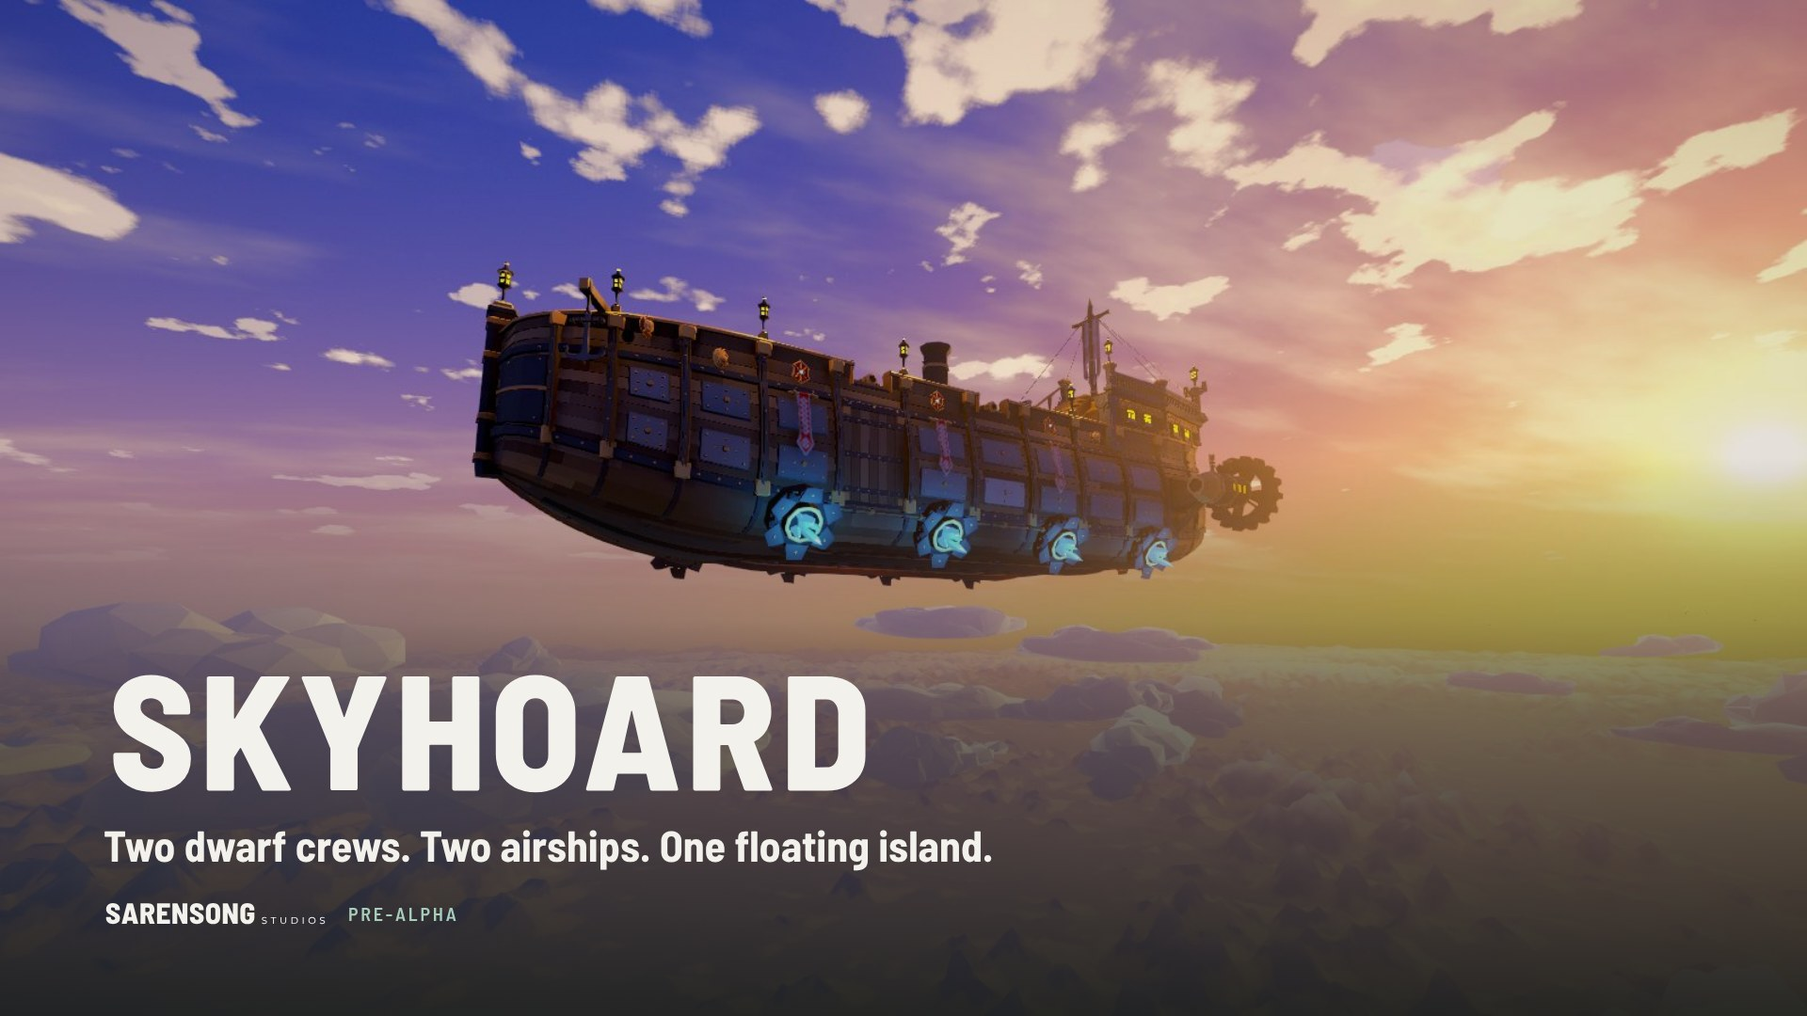
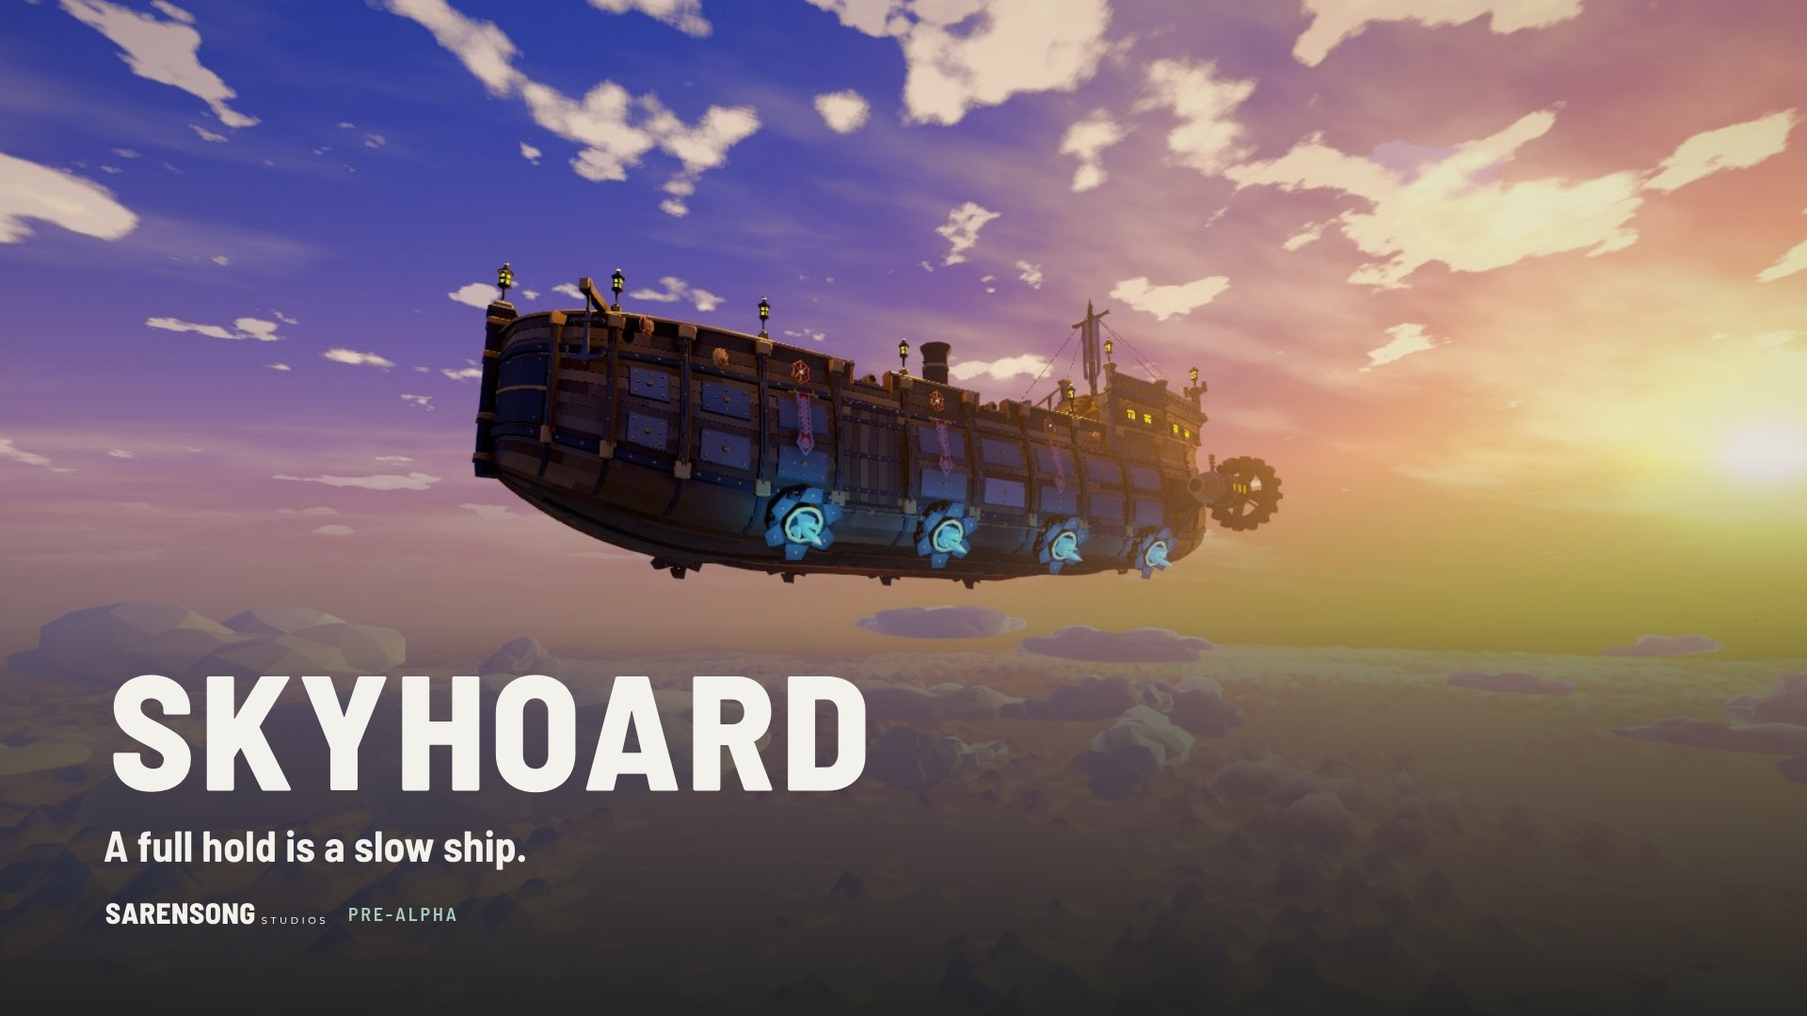
Fact-check pass and teaser-level Skyhoard copy
Claims were checked against the Skyhoard build sessions:
- Code claim narrowed to the game's own code (third-party Unity
  packages and asset-pack shaders ship too)
- Airship model described as script-built hull fitted with pack props
- Test stats made exact (26 checks, 139 pictures); network tests
  described as two copies over the network, not online play
- Music credit removed until confirmed
- Skyhoard marked as a working title

The game section, press kit and brand guide now describe Skyhoard at
genre level only: feature list and roadmap removed, new tagline
"A full hold is a slow ship.", social card re-rendered to match.

Claude-Session: https://claude.ai/code/session_01LGHXE58H4sRZh7WCVAbeqn

Changed region(s): [[0.0625, 0.7944, 0.5625, 0.8556]]

diff --git a/index.html b/index.html
@@ -4,11 +4,11 @@
 <meta charset="utf-8">
 <meta name="viewport" content="width=device-width, initial-scale=1, viewport-fit=cover">
 <title>Sarensong Studios</title>
-<meta name="description" content="Sarensong Studios is a one-person game studio. Its first game, Skyhoard, puts two crews of dwarves in armoured airships above a floating island.">
+<meta name="description" content="Sarensong Studios is a one-person game studio. Its first game, Skyhoard, is a first-person multiplayer game about dwarf crews and their armoured airships.">
 <meta name="theme-color" content="#F2F1EC">
 <meta property="og:type" content="website">
 <meta property="og:title" content="Sarensong Studios">
-<meta property="og:description" content="A one-person game studio. Now building Skyhoard: two dwarf crews, two airships, one floating island.">
+<meta property="og:description" content="A one-person game studio, built with Claude. Now making Skyhoard.">
 <meta property="og:image" content="brand/social/og-1200x630.jpg">
 <meta name="twitter:card" content="summary_large_image">
 <link rel="icon" href="assets/favicon.svg" type="image/svg+xml">
@@ -41,7 +41,7 @@
         <h1>Worlds that call you back.</h1>
       </div>
       <div class="hero-copy">
-        <p class="lede">Sarensong Studios is a one-person game studio. Our first game, Skyhoard, puts two crews of dwarves in armoured airships above a floating island. Every line of its code is written by Claude Code, directed by one developer.</p>
+        <p class="lede">Sarensong Studios is a one-person game studio. Our first game, Skyhoard, is a multiplayer game about dwarf crews and their armoured airships. All of the game's own code is written by Claude Code, directed by one developer.</p>
         <div class="cta-row">
           <a class="btn btn-pine" href="#skyhoard">See Skyhoard</a>
           <a class="btn btn-line" href="#pipeline">How it's built</a>
@@ -59,47 +59,28 @@
   <section class="section night" id="skyhoard" aria-labelledby="skyhoard-title">
     <div class="wrap">
       <div class="game-head">
-        <p class="label">Our first game · In development</p>
+        <p class="label">Our first game · Working title · In development</p>
         <h2 id="skyhoard-title" class="game-title">Skyhoard</h2>
-        <p class="game-tagline">Two dwarf crews. Two airships. One floating island.</p>
+        <p class="game-tagline">A full hold is a slow ship.</p>
       </div>
 
       <div class="game-intro">
-        <p class="lede">Skyhoard is a first-person multiplayer game about crews of dwarves who fly forgeships: armoured airships of timber and iron. Take the wheel, man the cannon, and shoot out the other ship's engines and lift crystals. Plates crack and get blown off, bare timber breaches and burns, and somebody has to grab the sand.</p>
+        <p class="lede">A first-person multiplayer game about dwarf crews, armoured airships of timber and iron, and the riches they try to bring home. More soon.</p>
         <dl class="facts">
           <div><dt class="label">Genre</dt><dd>First-person multiplayer</dd></div>
-          <div><dt class="label">Players</dt><dd>Two crews, online</dd></div>
+          <div><dt class="label">Platform</dt><dd>PC</dd></div>
           <div><dt class="label">Engine</dt><dd>Unity 6</dd></div>
           <div><dt class="label">Status</dt><dd>Pre-alpha</dd></div>
         </dl>
       </div>
 
       <div class="gallery" aria-label="Skyhoard screenshots">
-        <figure class="big"><a href="assets/skyhoard/in-flight.jpg"><img src="assets/skyhoard/in-flight.jpg" alt="The rival crew's forgeship in flight above the clouds, lift crystals glowing along her hull" width="1600" height="900"><figcaption>In flight</figcaption></a></figure>
-        <figure><a href="assets/skyhoard/landed.jpg"><img src="assets/skyhoard/landed.jpg" alt="A forgeship landed on the island meadow with her ramp lowered" width="1600" height="900" loading="lazy"><figcaption>Landed on the island</figcaption></a></figure>
+        <figure class="big"><a href="assets/skyhoard/in-flight.jpg"><img src="assets/skyhoard/in-flight.jpg" alt="An armoured airship in flight above the clouds, lift crystals glowing along her hull" width="1600" height="900"><figcaption>In flight</figcaption></a></figure>
+        <figure><a href="assets/skyhoard/landed.jpg"><img src="assets/skyhoard/landed.jpg" alt="An airship landed on an island meadow with her ramp lowered" width="1600" height="900" loading="lazy"><figcaption>Landed</figcaption></a></figure>
         <figure><a href="assets/skyhoard/forge.jpg"><img src="assets/skyhoard/forge.jpg" alt="The forge room below deck: a glowing smelter, forge and anvil" width="1600" height="900" loading="lazy"><figcaption>The forge room</figcaption></a></figure>
-        <figure><a href="assets/skyhoard/gun-fired.jpg"><img src="assets/skyhoard/gun-fired.jpg" alt="A cannon firing at the other ship from the gun deck" width="1600" height="900" loading="lazy"><figcaption>Broadside</figcaption></a></figure>
-        <figure><a href="assets/skyhoard/burning.jpg"><img src="assets/skyhoard/burning.jpg" alt="The other ship with a hull cell shot through and on fire" width="1600" height="900" loading="lazy"><figcaption>Hull breached and burning</figcaption></a></figure>
-        <figure><a href="assets/skyhoard/at-the-wheel.jpg"><img src="assets/skyhoard/at-the-wheel.jpg" alt="First-person view from the ship's wheel, looking forward over the deck at sunset" width="1600" height="900" loading="lazy"><figcaption>At the wheel</figcaption></a></figure>
-      </div>
-
-      <ul class="features">
-        <li><h3>Fly the forgeship</h3><p>Steer from the wheel on the quarterdeck. Twenty-four metres of timber and iron over three decks, with a forge in her belly.</p></li>
-        <li><h3>Break the other ship</h3><p>Cannon fire cracks hull plates, blows them off and holes the timber behind. Engines and lift crystals can be shot out.</p></li>
-        <li><h3>Fight the fire</h3><p>Bare timber burns, and a fire keeps spreading until someone puts it out with sand.</p></li>
-        <li><h3>Grapple and climb</h3><p>A rope that wraps round edges. Climb cliffs and ship sides, and rivet new plates on while hanging off the hull.</p></li>
-        <li><h3>Mine, fight and ram</h3><p>Dig ore on the island, fight its golems, or ram the other ship at full speed.</p></li>
-        <li><h3>Play with friends</h3><p>Host a match and share a join code. Nobody has to open a port.</p></li>
-      </ul>
-
-      <div class="roadmap">
-        <h3 class="label">Roadmap</h3>
-        <ol class="track">
-          <li class="done"><span class="state">Done</span><strong>Playable prototype</strong><span>Online matches for two crews, with join codes</span></li>
-          <li class="now"><span class="state">Now</span><strong>Forgeship polish</strong><span>Helm instruments, fuller decks and a smaller starter hull</span></li>
-          <li><span class="state">Next</span><strong>Boarding</strong><span>A grappling cannon and a crew-worked capstan</span></li>
-          <li><span class="state">Later</span><strong>Modular ships</strong><span>Swap cannon, engines, prow and rudder, and forge your own plates aboard</span></li>
-        </ol>
+        <figure><a href="assets/skyhoard/gun-fired.jpg"><img src="assets/skyhoard/gun-fired.jpg" alt="A cannon firing from the gun deck" width="1600" height="900" loading="lazy"><figcaption>Broadside</figcaption></a></figure>
+        <figure><a href="assets/skyhoard/burning.jpg"><img src="assets/skyhoard/burning.jpg" alt="An airship with a hull section on fire" width="1600" height="900" loading="lazy"><figcaption>Taking fire</figcaption></a></figure>
+        <figure><a href="assets/skyhoard/at-the-wheel.jpg"><img src="assets/skyhoard/at-the-wheel.jpg" alt="First-person view from the ship's wheel at sunset" width="1600" height="900" loading="lazy"><figcaption>At the wheel</figcaption></a></figure>
       </div>
     </div>
   </section>
@@ -109,21 +90,21 @@
       <div class="section-head">
         <p class="label">How we build</p>
         <h2 id="pipeline-title">Built by one developer and Claude.</h2>
-        <p class="lede">Skyhoard's code, its 3D ship, its build scripts and its tests are all written by Claude Code, working from the command line. The Unity editor has never been opened by hand. The developer sets the direction, plays every build and makes the calls.</p>
+        <p class="lede">Skyhoard's game code, the script that builds its airship, its build tooling and its tests are all written by Claude Code, working from the command line. The Unity editor has never been opened by hand. The developer designs the game, directs the art and plays the builds.</p>
       </div>
 
       <dl class="stats">
         <div><dt>times the Unity editor has been opened by hand. Every scene is assembled by script.</dt><dd>0</dd></div>
-        <div><dt>triangles per forgeship, modelled plank by plank by a Python script in Blender.</dt><dd>315k</dd></div>
-        <div><dt>waypoints the game walks itself through on every test run, with scripted checks and a picture report.</dt><dd>76</dd></div>
-        <div><dt>milliseconds per frame, after Claude profiled a slow physics query and rewrote it.</dt><dd>13→0.2</dd></div>
+        <div><dt>triangles per airship, built by a Python script in Blender: the hull plank by plank, fitted out with ready-made props.</dt><dd>315k</dd></div>
+        <div><dt>waypoints the game walks itself through on every test run, with 26 scripted checks and 139 pictures.</dt><dd>76</dd></div>
+        <div><dt>milliseconds per frame, after Claude measured a slow physics check on the ships and rewrote it.</dt><dd>13→0.2</dd></div>
       </dl>
 
       <ol class="steps">
         <li><h3>Direct</h3><p>The developer describes the feature, the feel or the fix, and reviews pictures of the result.</p></li>
-        <li><h3>Write</h3><p>Claude Code writes the C# game code, the scripts that assemble each scene and model the ship, and Python that synthesizes most of the sound effects.</p></li>
+        <li><h3>Write</h3><p>Claude Code writes the C# game code, the scripts that assemble each scene and build the ship, and Python that synthesizes most of the sound effects.</p></li>
         <li><h3>Build</h3><p>One command builds the scene, builds the game and runs the tests.</p></li>
-        <li><h3>Test</h3><p>The game plays itself: a hidden walk-through, two hidden copies playing each other online, and benchmark runs.</p></li>
+        <li><h3>Test</h3><p>The game plays itself: a hidden walk-through, two hidden copies playing each other over the network, and benchmark runs.</p></li>
         <li><h3>Play</h3><p>A playtest build goes out, and whatever feels wrong goes back to the first step.</p></li>
       </ol>
     </div>
@@ -134,7 +115,7 @@
       <div class="studio-copy">
         <p class="label">The studio</p>
         <h2 id="studio-title">One developer. Claude as the crew.</h2>
-        <p>Sarensong Studios was founded in 2026 by a solo developer. Design, direction, music and every final decision come from one desk, and the engineering is done hand in hand with Claude.</p>
+        <p>Sarensong Studios was founded in 2026 by a solo developer. Design, art direction and every final decision come from one desk, and the engineering is done hand in hand with Claude.</p>
         <p>Working this way lets one person build a networked 3D game with its own ship pipeline, test suite and benchmarks, work that would normally need a team.</p>
       </div>
       <div class="spec">

diff --git a/press.html b/press.html
@@ -68,11 +68,10 @@
           </dl>
         </div>
         <div class="spec">
-          <h3>Skyhoard</h3>
+          <h3>Skyhoard <span class="label">· working title</span></h3>
           <dl>
             <div><dt class="label">Genre</dt><dd>First-person multiplayer</dd></div>
-            <div><dt class="label">Players</dt><dd>Two crews of dwarves, online with join codes</dd></div>
-            <div><dt class="label">Engine</dt><dd>Unity 6</dd></div>
+                        <div><dt class="label">Engine</dt><dd>Unity 6</dd></div>
             <div><dt class="label">Platform</dt><dd>PC</dd></div>
             <div><dt class="label">Status</dt><dd>Pre-alpha · release date to be announced</dd></div>
           </dl>
@@ -91,7 +90,7 @@
       <div class="copy-grid">
         <article class="copy-block">
           <header><h3 class="label">Skyhoard · one line</h3><button class="btn btn-line btn-sm" type="button" data-copy="copy-game-short" aria-live="polite">Copy</button></header>
-          <div class="copy-text" id="copy-game-short"><p>Skyhoard is a first-person multiplayer game where two crews of dwarves fly armoured airships and fight over a floating island.</p></div>
+          <div class="copy-text" id="copy-game-short"><p>Skyhoard is a first-person multiplayer game about dwarf crews, armoured airships and the riches they try to bring home.</p></div>
         </article>
         <article class="copy-block">
           <header><h3 class="label">Studio · one line</h3><button class="btn btn-line btn-sm" type="button" data-copy="copy-studio-short" aria-live="polite">Copy</button></header>
@@ -99,11 +98,11 @@
         </article>
         <article class="copy-block">
           <header><h3 class="label">Skyhoard · paragraph</h3><button class="btn btn-line btn-sm" type="button" data-copy="copy-game-long" aria-live="polite">Copy</button></header>
-          <div class="copy-text" id="copy-game-long"><p>Skyhoard puts two crews of dwarves on two forgeships, armoured airships of timber and iron, above a floating island. Take the wheel, man the cannon, and shoot out the other ship's engines and lift crystals. Hull plates crack and get blown off, bare timber breaches and burns, and somebody has to grab the sand. Grapple up cliffs and ship sides, rivet new plates on while hanging off the hull, mine ore, fight the island's golems, or ram the other ship at full speed. Skyhoard is in pre-alpha at Sarensong Studios.</p></div>
+          <div class="copy-text" id="copy-game-long"><p>Skyhoard (working title) is a first-person multiplayer game for PC about crews of dwarves who fly armoured airships of timber and iron. It is in pre-alpha at Sarensong Studios, built in Unity 6, and more will be shared closer to its announcement.</p></div>
         </article>
         <article class="copy-block">
           <header><h3 class="label">Studio · paragraph</h3><button class="btn btn-line btn-sm" type="button" data-copy="copy-studio-long" aria-live="polite">Copy</button></header>
-          <div class="copy-text" id="copy-studio-long"><p>Sarensong Studios is an independent game studio founded in 2026 by a solo developer. Its games are engineered with Claude Code: the gameplay code, the scripts that model 3D assets and assemble every scene, the build tooling and the automated tests that let the game play itself. The developer directs, designs, writes the music and makes every final call. The studio's first game, Skyhoard, is in pre-alpha.</p></div>
+          <div class="copy-text" id="copy-studio-long"><p>Sarensong Studios is an independent game studio founded in 2026 by a solo developer. Its games are engineered with Claude Code: the gameplay code, the scripts that build 3D models and assemble every scene, the build tooling and the automated tests that let the game play itself. The developer designs the game, directs the art and makes every final call. The studio's first game, Skyhoard, is in pre-alpha.</p></div>
         </article>
       </div>
     </div>
@@ -230,7 +229,7 @@
       </div>
       <div class="specimens">
         <div class="specimen"><p class="label">Barlow Semi Condensed 800 · headings and logo</p><p class="sample s-head">Worlds that call you back.</p></div>
-        <div class="specimen"><p class="label">Barlow 400 · body text</p><p class="sample s-body">Two dwarf crews, two airships and a floating island worth fighting over.</p></div>
+        <div class="specimen"><p class="label">Barlow 400 · body text</p><p class="sample s-body">Dwarf crews, armoured airships and the riches they try to bring home.</p></div>
         <div class="specimen"><p class="label">Barlow Semi Condensed 600 · labels</p><p class="sample s-label">Pre-alpha · Unity 6 · Est. 2026</p></div>
       </div>
     </div>

diff --git a/assets/site.css b/assets/site.css
@@ -158,31 +158,6 @@ h3 { font-size: var(--t-h3); font-weight: 700; line-height: 1.15; }
 }
 @media (prefers-reduced-motion: reduce) { .gallery img { transition: none; } .gallery a:hover img { transform: none; } }
 
-.features { display: grid; grid-template-columns: repeat(3, minmax(0, 1fr)); gap: 32px 40px; }
-.features li { display: grid; gap: 8px; align-content: start; padding-top: 18px; border-top: 1px solid var(--night-rule); min-width: 0; }
-.features p { font-size: var(--t-sm); }
-@media (max-width: 860px) { .features { grid-template-columns: repeat(2, minmax(0, 1fr)); } }
-@media (max-width: 520px) { .features { grid-template-columns: 1fr; } }
-
-.roadmap { display: grid; gap: 24px; }
-.track { display: grid; grid-template-columns: repeat(4, minmax(0, 1fr)); }
-.track li { position: relative; display: grid; gap: 6px; align-content: start; padding: 26px 24px 0 0; border-top: 2px solid var(--night-rule); min-width: 0; }
-.track li::before { content: ""; position: absolute; top: -7px; left: 0; width: 12px; height: 12px; background: var(--night); border: 2px solid var(--night-mist); }
-.track .state { font: 600 var(--t-label) var(--head); letter-spacing: 0.14em; text-transform: uppercase; color: var(--night-mist); }
-.track strong { font: 700 1.1875rem/1.2 var(--head); }
-.track span:last-child { font-size: var(--t-sm); color: var(--night-mist); }
-.track .done { border-top-color: var(--lichen); }
-.track .done::before { background: var(--lichen); border-color: var(--lichen); }
-.track .now::before { background: var(--paper); border-color: var(--paper); }
-.track .done .state, .track .now .state { color: var(--lichen); }
-@media (max-width: 860px) {
-  .track { grid-template-columns: 1fr; }
-  .track li { border-top: 0; border-left: 2px solid var(--night-rule); padding: 0 0 24px 24px; }
-  .track li:last-child { padding-bottom: 0; }
-  .track li::before { top: 4px; left: -7px; }
-  .track .done { border-left-color: var(--lichen); }
-}
-
 /* How we build */
 .stats { display: grid; grid-template-columns: repeat(4, minmax(0, 1fr)); border-top: 2px solid var(--ink); }
 .stats div { display: grid; gap: 10px; align-content: start; padding: 22px 24px 4px 0; min-width: 0; }

diff --git a/BRAND.md b/BRAND.md
@@ -69,15 +69,17 @@ One family keeps the site, the logo and every document consistent. Montserrat ap
 
 Plain, warm and specific. Short sentences and concrete nouns: wheel, cannon, plate, sand, forge.
 
-- Show the game doing things: "Plates crack and get blown off, bare timber breaches and burns, and somebody has to grab the sand."
+- Show, don't explain: screenshots and short lines like "A full hold is a slow ship." Keep mechanics private until announcement.
 - Be honest about stage: "pre-alpha", "prototype", "planned".
 - Talk about Claude the way you'd talk about a crewmate: what it builds and how, with real numbers. Avoid hype like "revolutionary" or "AI-powered".
 
 ## Skyhoard
 
-- **Tagline:** Two dwarf crews. Two airships. One floating island.
-- **One line:** Skyhoard is a first-person multiplayer game where two crews of dwarves fly armoured airships and fight over a floating island.
+- **Name:** working title.
+- **Tagline:** A full hold is a slow ship.
+- **One line:** Skyhoard is a first-person multiplayer game about dwarf crews, armoured airships and the riches they try to bring home.
 - **Status:** Pre-alpha, Unity 6, PC.
+- **What stays private:** the raid structure, crew and raid sizes, economy and roadmap. Public material describes the game at genre level only, with screenshots.
 - **Screenshots:** `assets/skyhoard/` (14 in-game shots from the forgeship tour, 1600×900).
 
 ## Boilerplate
@@ -86,10 +88,10 @@ Plain, warm and specific. Short sentences and concrete nouns: wheel, cannon, pla
 > Sarensong Studios is a one-person game studio that builds its games with Claude Code.
 
 **Studio, paragraph**
-> Sarensong Studios is an independent game studio founded in 2026 by a solo developer. Its games are engineered with Claude Code: the gameplay code, the scripts that model 3D assets and assemble every scene, the build tooling and the automated tests that let the game play itself. The developer directs, designs, writes the music and makes every final call. The studio's first game, Skyhoard, is in pre-alpha.
+> Sarensong Studios is an independent game studio founded in 2026 by a solo developer. Its games are engineered with Claude Code: the gameplay code, the scripts that build 3D models and assemble every scene, the build tooling and the automated tests that let the game play itself. The developer designs the game, directs the art and makes every final call. The studio's first game, Skyhoard, is in pre-alpha.
 
 **Social bio (under 160 characters)**
-> One-person game studio, built with Claude. Now making Skyhoard: two dwarf crews, two airships, one floating island.
+> One-person game studio, built with Claude. Now making Skyhoard: dwarves, airships, and a full hold to get home.
 
 ## Social kit
 

diff --git a/README.md b/README.md
@@ -27,7 +27,7 @@ python3 -m http.server 8000
 ## Before going live
 
 - [ ] **Domain and email.** The site uses `hello@sarensong.com` and `sarensong.com`. Find and replace across `index.html`, `press.html`, `BRAND.md` and `brand/email/signature.html` if the domain ends up different.
-- [ ] **Roadmap.** The four stages on the homepage come from the Skyhoard tour and technical overview. Adjust to the real plan.
+- [ ] **Skyhoard name.** Marked as a working title on the site and press kit. Remove "working title" once it is final.
 - [ ] **Platform.** The press kit says PC. Change it if that's wrong.
 - [ ] **Socials.** Claim `@sarensong`, then add links to the footer and the press kit fact sheet.
 - [ ] **Email signature.** Put your name in `brand/email/signature.html`.
